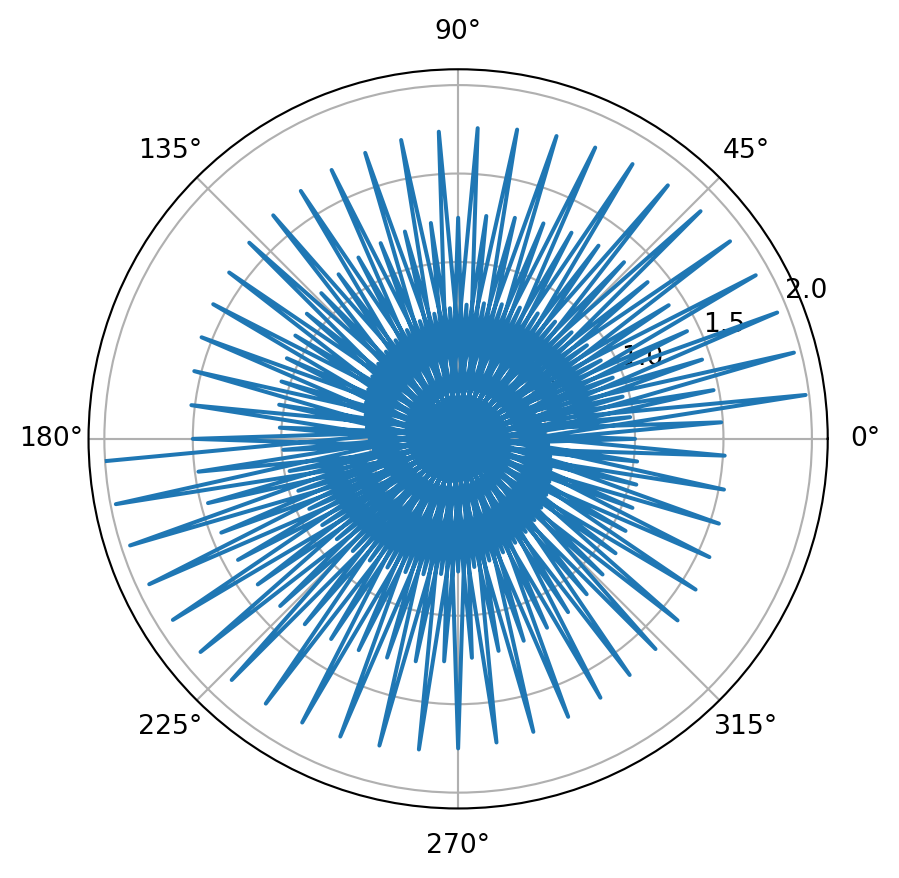
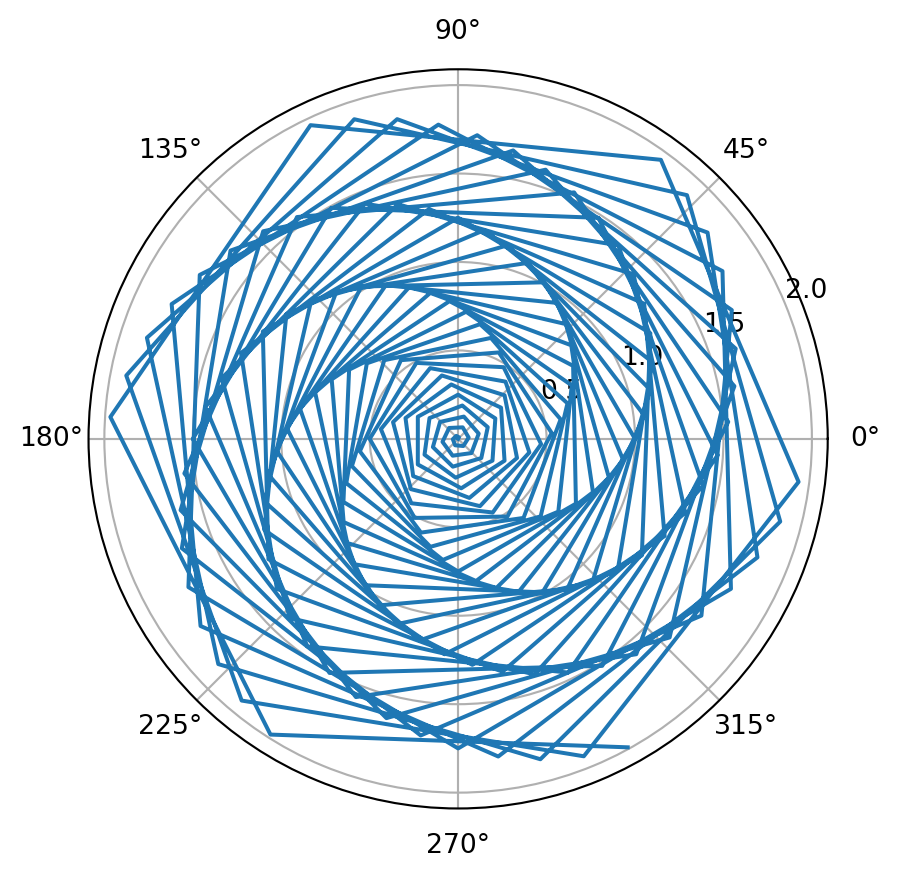
test render 3

Changed region(s): [[0.1246, 0.123, 0.9032, 0.861]]

diff --git a/hello.html b/hello.html
@@ -104,7 +104,7 @@ pre > code.sourceCode > span > a:first-child::before { text-decoration: underlin
 <span id="cb1-2"><a href="#cb1-2" aria-hidden="true" tabindex="-1"></a><span class="im">import</span> matplotlib.pyplot <span class="im">as</span> plt</span>
 <span id="cb1-3"><a href="#cb1-3" aria-hidden="true" tabindex="-1"></a></span>
 <span id="cb1-4"><a href="#cb1-4" aria-hidden="true" tabindex="-1"></a>r <span class="op">=</span> np.arange(<span class="dv">0</span>, <span class="dv">2</span>, <span class="fl">0.01</span>)</span>
-<span id="cb1-5"><a href="#cb1-5" aria-hidden="true" tabindex="-1"></a>theta <span class="op">=</span> <span class="dv">98</span> <span class="op">*</span> np.pi <span class="op">*</span> r</span>
+<span id="cb1-5"><a href="#cb1-5" aria-hidden="true" tabindex="-1"></a>theta <span class="op">=</span> <span class="dv">34</span> <span class="op">*</span> np.pi <span class="op">*</span> r</span>
 <span id="cb1-6"><a href="#cb1-6" aria-hidden="true" tabindex="-1"></a>fig, ax <span class="op">=</span> plt.subplots(</span>
 <span id="cb1-7"><a href="#cb1-7" aria-hidden="true" tabindex="-1"></a>  subplot_kw <span class="op">=</span> {<span class="st">'projection'</span>: <span class="st">'polar'</span>} </span>
 <span id="cb1-8"><a href="#cb1-8" aria-hidden="true" tabindex="-1"></a>)</span>
